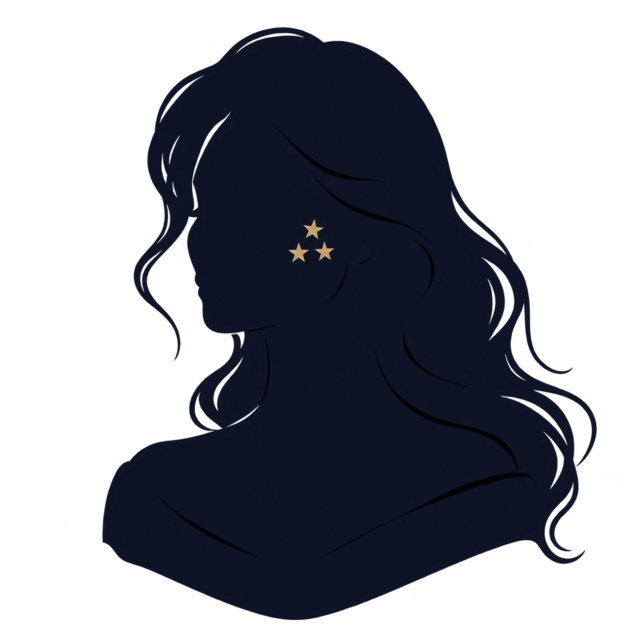
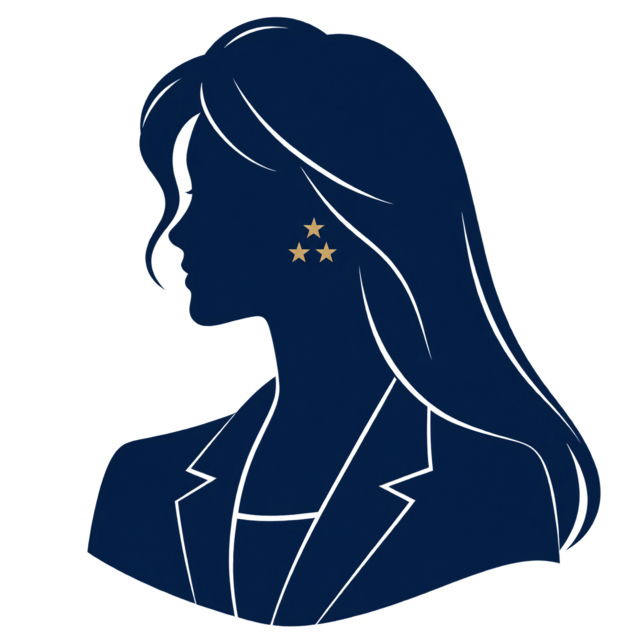
Refine portrait and homepage voice

diff --git a/_pages/about.md b/_pages/about.md
@@ -11,16 +11,15 @@ redirect_from:
 <section class="portfolio-hero">
   <div class="portfolio-hero__copy">
     <p class="eyebrow">Human–AI Interaction · Human-Computer Interaction</p>
-    <h1>I study how people understand intelligent systems, then build better ways for them to interact.</h1>
-    <p class="hero-intro">I’m Savannah Sidle, an HCI researcher and builder working across responsible AI, adaptive interfaces, accessibility, apps, and websites. My work centres trust: what systems perceive, how they act, and whether people can understand and control the relationship.</p>
+    <h1>Savannah Sidle works in Human–AI Interaction and Human-Computer Interaction.</h1>
+    <p class="hero-intro">Her research focuses on trust, adaptive systems, accessibility, and responsible AI. She also develops apps and websites.</p>
     <div class="hero-actions">
       <a class="portfolio-button" href="/projects/">Explore projects</a>
       <a class="portfolio-button portfolio-button--quiet" href="/cv/">View CV</a>
     </div>
   </div>
   <figure class="portfolio-hero__portrait">
-    <img src="/images/profile-silhouette.png" alt="Silhouette placeholder of a long-haired woman with three stars on her cheek">
-    <figcaption>Portrait coming soon.</figcaption>
+    <img src="/images/profile-silhouette.png" alt="Professional silhouette of a long-haired woman with three stars on her cheek">
   </figure>
 </section>
 
